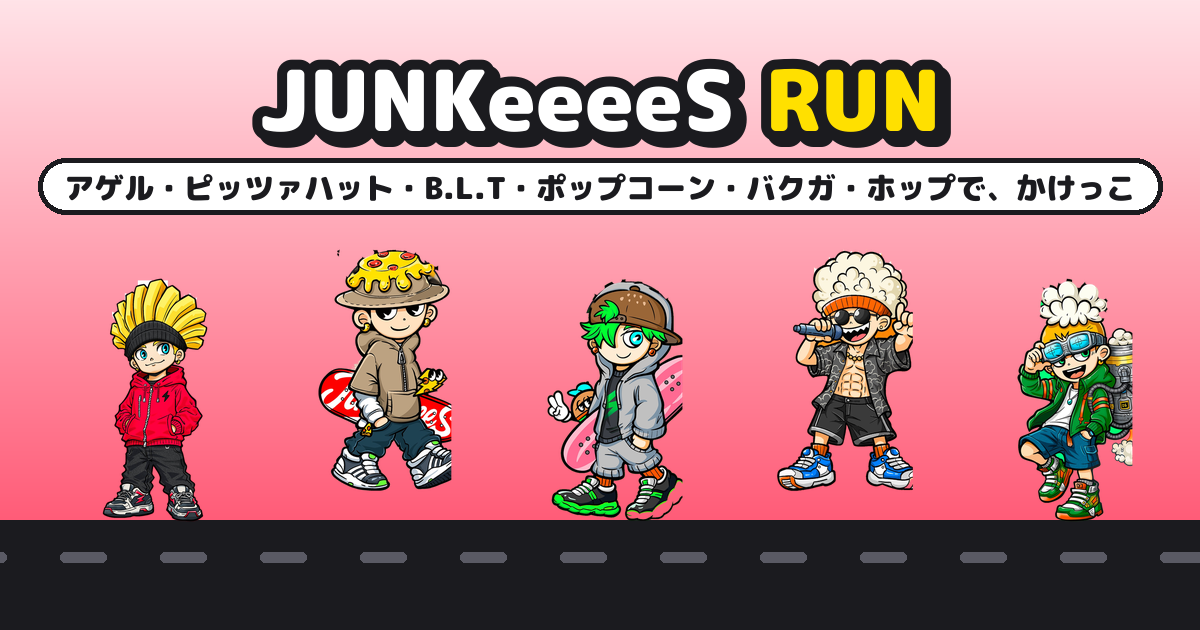
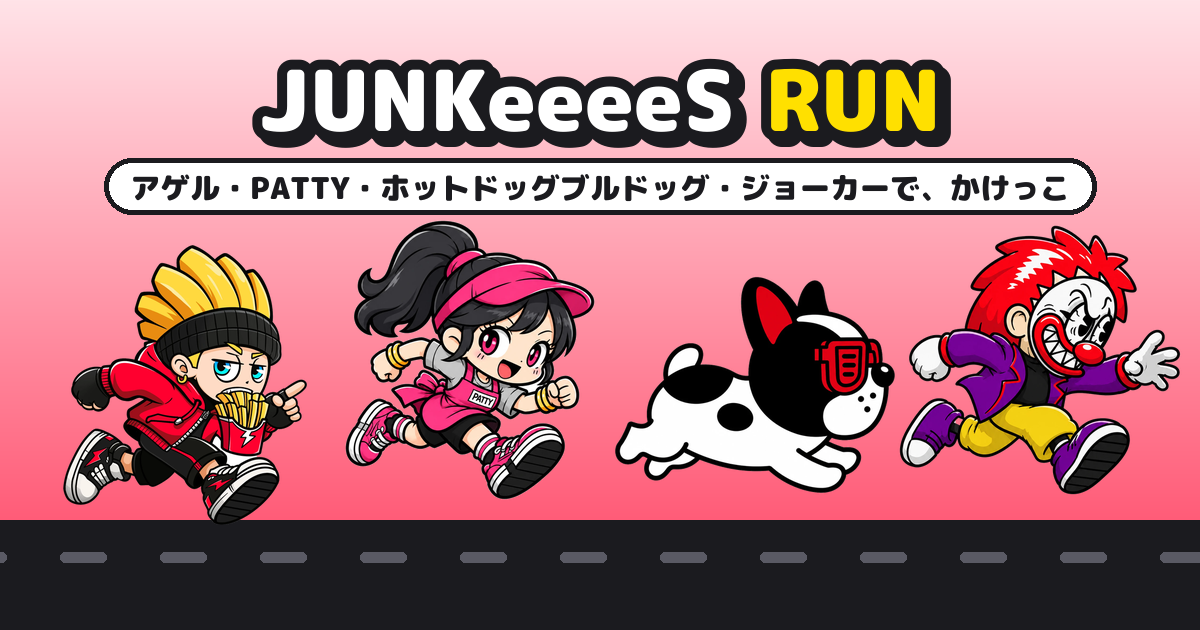
run-junkeees: ROKUさんの新素材4体(アゲル・PATTY・ホットドッグブルドッグ・ジョーカー)に差し替え、リンク先をJUNKeeeeSのTAPページへ

Changed region(s): [[0.0308, 0.2413, 0.9867, 0.8444]]

diff --git a/run-junkeees/index.html b/run-junkeees/index.html
@@ -4,17 +4,17 @@
 <meta charset="UTF-8">
 <meta name="viewport" content="width=device-width, initial-scale=1.0, viewport-fit=cover">
 <title>JUNKeeeeS RUN</title>
-<meta name="description" content="JUNKeeeeSの5人で走るランゲーム。"><meta name="robots" content="noindex,nofollow">
+<meta name="description" content="JUNKeeeeSの4体で走るランゲーム。"><meta name="robots" content="noindex,nofollow">
 <meta property="og:type" content="website">
 <meta property="og:url" content="https://charamarl.com/run-junkeees/">
 <meta property="og:title" content="JUNKeeeeS RUN">
-<meta property="og:description" content="アゲル・ピッツァハット・B.L.T・ポップコーン・バクガ・ホップで、かけっこ">
+<meta property="og:description" content="アゲル・PATTY・ホットドッグブルドッグ・ジョーカーで、かけっこ">
 <meta property="og:image" content="https://charamarl.com/run-junkeees/og.png">
 <meta property="og:image:width" content="1200">
 <meta property="og:image:height" content="630">
 <meta name="twitter:card" content="summary_large_image">
 <meta name="twitter:title" content="JUNKeeeeS RUN">
-<meta name="twitter:description" content="アゲル・ピッツァハット・B.L.T・ポップコーン・バクガ・ホップで、かけっこ">
+<meta name="twitter:description" content="アゲル・PATTY・ホットドッグブルドッグ・ジョーカーで、かけっこ">
 <meta name="twitter:image" content="https://charamarl.com/run-junkeees/og.png">
 <script>
 // 計測(GA4・CHARAMARLと同じプロパティ)。?internal=1 を一度開いた端末は以後計測しない(解除=?internal=0)
@@ -196,7 +196,7 @@ window.drEvent=function(name,params){ try{ if(window.gtag) window.gtag('event',n
 <body>
 <div class="wrap">
   <header>
-    <a class="logo" href="https://charamarl.com/" title="CHARAMARLへ">JUNKeeeeS<small>RUN</small></a>
+    <a class="logo" href="https://charamarl.com/tap/junkeeees.html?utm_source=junkeees_run" title="JUNKeeeeSのページへ">JUNKeeeeS<small>RUN</small></a>
     <div class="scores">
       <div class="chip num">SCORE <b id="scoreNow">0</b></div>
       <div class="chip num">HI <b id="scoreHi">0</b></div>
@@ -297,21 +297,20 @@ window.drEvent=function(name,params){ try{ if(window.gtag) window.gtag('event',n
   //   id      : API・保存キー用(英字)。name : 表示名。artist : クレジット
   //   敵役は「主人公以外のキャラ」がランダムで飛んでくる(enemySize で大きさ調整)
   const CHARS = {
-    ageru:    { id:'JUNK_AGERU',    name:'アゲル',        sprite:'art/ageru.png',    facing:'right', artist:'JUNKeeeeS', enemySize:82,
-                trait:{ label:'オールラウンダー' }, like:null, shop:'https://charamarl.com/', goods:null },
-    pizzahat: { id:'JUNK_PIZZAHAT', name:'ピッツァハット', sprite:'art/pizzahat.png', facing:'right', artist:'JUNKeeeeS', enemySize:80,
-                trait:{ label:'バーガーが近くに来る（取りやすい）', starY:30 }, like:null, shop:'https://charamarl.com/', goods:null },
-    blt:      { id:'JUNK_BLT',      name:'B.L.T',         sprite:'art/blt.png',      facing:'left', artist:'JUNKeeeeS', enemySize:80,
-                trait:{ label:'最速ランナー（同じ時間で点が多く入る）', speed:1.1 }, like:null, shop:'https://charamarl.com/', goods:null },
-    popcorn:  { id:'JUNK_POPCORN',  name:'ポップコーン',   sprite:'art/popcorn.png',  facing:'right', artist:'JUNKeeeeS', enemySize:80,
-                trait:{ label:'ジャンプ力が高い', jump:1.12 }, like:null, shop:'https://charamarl.com/', goods:null },
-    bukgahop: { id:'JUNK_BUKGAHOP', name:'バクガ・ホップ', sprite:'art/bukgahop.png', facing:'left', artist:'JUNKeeeeS', enemySize:80,
-                trait:{ label:'頑丈（1回だけ耐える）', shield:true }, like:null, shop:'https://charamarl.com/', goods:null },
+    ageru:  { id:'JUNK_AGERU',  name:'アゲル',               sprite:'art/ageru.png',  facing:'right', artist:'ROKU', enemySize:82,
+              trait:{ label:'オールラウンダー' }, like:null, shop:'https://charamarl.com/tap/junkeeees.html?utm_source=junkeees_run', goods:null },
+    patty:  { id:'JUNK_PATTY',  name:'PATTY',                sprite:'art/patty.png',  facing:'right', artist:'ROKU', enemySize:80,
+              trait:{ label:'最速ランナー（同じ時間で点が多く入る）', speed:1.1 }, like:null, shop:'https://charamarl.com/tap/junkeeees.html?utm_source=junkeees_run', goods:null },
+    hotdog: { id:'JUNK_HOTDOG', name:'ホットドッグブルドッグ', sprite:'art/bull.png',   facing:'right', artist:'ROKU', enemySize:84,
+              trait:{ label:'ジャンプ力が高い', jump:1.12 }, like:null, shop:'https://charamarl.com/tap/junkeeees.html?utm_source=junkeees_run', goods:null },
+    joker:  { id:'JUNK_JOKER',  name:'ジョーカー',           sprite:'art/clown.png',  facing:'right', artist:'ROKU', enemySize:82,
+              trait:{ label:'バーガーが近くに来る（取りやすい）', starY:30 }, like:null, shop:'https://charamarl.com/tap/junkeeees.html?utm_source=junkeees_run', goods:null },
   };
+
 
   const charKey = (new URLSearchParams(location.search).get('char') || 'ageru').toLowerCase();
   const CHAR  = CHARS[charKey] || CHARS.ageru;
-  CHAR.credit = 'JUNKeeeeS';
+  CHAR.credit = 'JUNKeeeeS by ROKU';
   const T = Object.assign({ label:'', jump:1, grav:1, hit:1, speed:1, fly:0, starY:0, grace:90, shield:false, ramp:180 }, CHAR.trait || {});
   const RIVALS = Object.keys(CHARS).filter(k => CHARS[k] !== CHAR);   // 敵役の候補(主人公以外)
   // 星の飛行(500点ごとに★が飛来。取ると FLY_SEC 秒間、障害物を無視して空を飛べる)

diff --git a/api/run-score.js b/api/run-score.js
@@ -27,7 +27,7 @@ async function pipeline(cmds) {
 }
 
 const CHAR_RE = /^[a-z0-9_-]{1,20}$/i;
-const ALLOWED_CHARS = ['SUE', 'PUTTI', 'MOSSUN', 'GMC', 'UFOO', 'KAGECHIYO', 'YURUCRAZY', 'DOGOOOOO', 'INKUMO', 'DANNA', 'BLOCKMA', 'MONY', 'SANTAMA_KAGECHIYO', 'SANTAMA_KIMI', 'SANTAMA_SHIGURE', 'SANTAMA_PROM', 'SANTAMA_MUCHIKO', 'JUNK_AGERU', 'JUNK_PIZZAHAT', 'JUNK_BLT', 'JUNK_POPCORN', 'JUNK_BUKGAHOP'];   // 公開キャラのみ受け付ける(プロンプト公開後のコピー流入対策)
+const ALLOWED_CHARS = ['SUE', 'PUTTI', 'MOSSUN', 'GMC', 'UFOO', 'KAGECHIYO', 'YURUCRAZY', 'DOGOOOOO', 'INKUMO', 'DANNA', 'BLOCKMA', 'MONY', 'SANTAMA_KAGECHIYO', 'SANTAMA_KIMI', 'SANTAMA_SHIGURE', 'SANTAMA_PROM', 'SANTAMA_MUCHIKO', 'JUNK_AGERU', 'JUNK_PIZZAHAT', 'JUNK_BLT', 'JUNK_POPCORN', 'JUNK_BUKGAHOP', 'JUNK_PATTY', 'JUNK_HOTDOG', 'JUNK_JOKER'];   // 公開キャラのみ受け付ける(プロンプト公開後のコピー流入対策)
 // 週間ランキング: 日本時間の月曜始まり。キー = run:rank:{char}:w:{その週の月曜 YYYY-MM-DD}
 function weekKey(now = new Date()) {
   const jst = new Date(now.getTime() + 9 * 3600e3);
